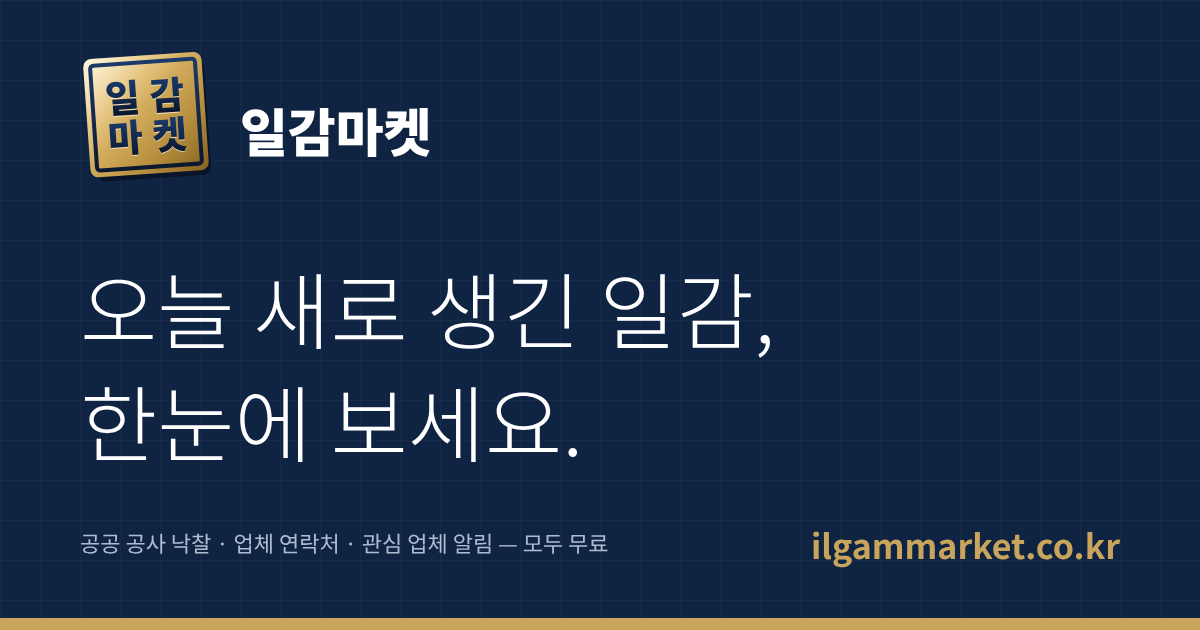
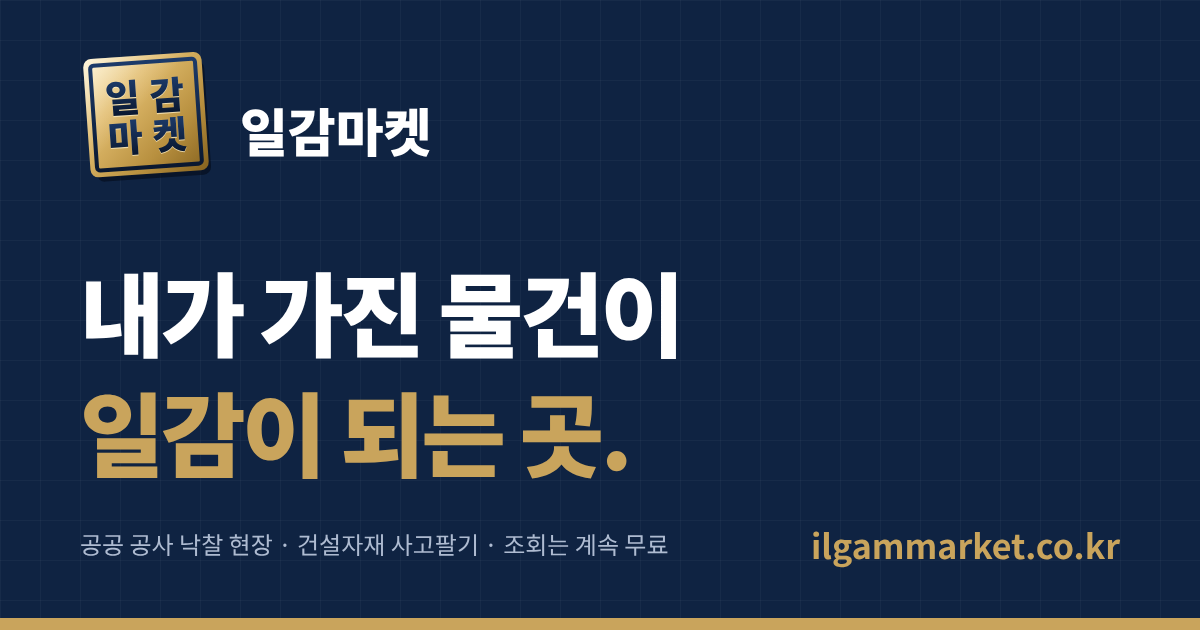
첫 화면 문구: 내가 가진 물건이 일감이 되는 곳 (설명·제목·공유 이미지·검색 소개 문구 통일)
Claude-Session: https://claude.ai/code/session_012PyYqoCitPcM8dpfn6xUZL

Changed region(s): [[0.0617, 0.4222, 0.6475, 0.573], [0.0617, 0.6032, 0.5242, 0.7841], [0.0617, 0.8444, 0.555, 0.9048]]

diff --git a/index.html b/index.html
@@ -3,11 +3,11 @@
 <head>
 <meta charset="utf-8">
 <meta name="viewport" content="width=device-width, initial-scale=1">
-<title>일감마켓 · 오늘 새로 생긴 일감, 공공 공사 낙찰</title>
+<title>일감마켓 · 내가 가진 물건이 일감이 되는 곳</title>
 <meta name="naver-site-verification" content="c90a09065c84eecffc4b4a400a52710d5afa1786">
-<meta name="description" content="공공 공사 낙찰 소식부터 자재·장비 거래까지. 조달청 나라장터 공공데이터를 지역·분야·업체별로 정리해 매일 아침 갱신합니다.">
+<meta name="description" content="남는 자재·장비를 올리면 필요한 업체가 연락합니다. 공공 공사 낙찰 현장과 업체 정보는 매일 아침 갱신하고, 조회는 계속 무료입니다.">
 <link rel="canonical" href="https://ilgammarket.co.kr/">
-<meta property="og:type" content="website"><meta property="og:site_name" content="일감마켓"><meta property="og:title" content="일감마켓 · 오늘 새로 생긴 일감, 한눈에 보세요"><meta property="og:description" content="공공 공사 낙찰, 업체 연락처, 관심 업체 알림까지 모두 무료. 매일 아침 갱신합니다."><meta property="og:url" content="https://ilgammarket.co.kr/"><meta property="og:image" content="https://ilgammarket.co.kr/og.png"><meta property="og:image:width" content="1200"><meta property="og:image:height" content="630">
+<meta property="og:type" content="website"><meta property="og:site_name" content="일감마켓"><meta property="og:title" content="일감마켓 · 내가 가진 물건이 일감이 되는 곳"><meta property="og:description" content="남는 자재·장비를 올리면 필요한 업체가 연락합니다. 공공 공사 낙찰 현장과 업체 정보는 매일 아침 갱신하고, 조회는 계속 무료입니다."><meta property="og:url" content="https://ilgammarket.co.kr/"><meta property="og:image" content="https://ilgammarket.co.kr/og.png"><meta property="og:image:width" content="1200"><meta property="og:image:height" content="630">
 <meta name="twitter:card" content="summary_large_image"><meta name="twitter:image" content="https://ilgammarket.co.kr/og.png">
 <link rel="icon" type="image/svg+xml" href="/img/icon.svg">
 <meta name="theme-color" content="#0f2342">
@@ -466,9 +466,9 @@ body.ph .hero,body.ph #res{display:none}body:not(.ph) #home{display:none}
 
 <section class="ab-hero"><div class="wrap ab-hw">
 <div class="ab-ht">
-<span class="ab-tag">일감마켓 이야기</span>
-<h1>영업하는 사람이 만든,<br><em>영업하는 사람</em>을 위한 곳</h1>
-<p>낙찰된 현장 옆에 ‘누구에게 전화할까’를 붙였습니다. 일감마켓은 그 한 가지에서 시작했습니다.</p>
+<span class="ab-tag">건설자재 사고팔기 · 낙찰 현장</span>
+<h1>내가 가진 물건이<br><em>일감이 되는 곳.</em></h1>
+<p>이번 주 낙찰된 공사 <b id="hN">1,877</b>건. 남는 자재·장비를 올리면 필요한 업체가 연락합니다. 낙찰·업체 조회는 계속 무료입니다.</p>
 <div class="ab-bt"><button type="button" class="go" data-act="join">무료 가입 · 14일 전부 열림</button><button type="button" class="ab-g" data-act="tab:win">새 일감 보기</button></div>
 </div>
 <div class="ab-hl" aria-hidden="true"><img src="/img/logo.svg" alt="" width="260" height="260"></div>
@@ -703,7 +703,7 @@ fetch('/data/about.json').then(function(r){return r.json()}).then(function(a){
     document.getElementById('wDn').innerHTML=(a.down.length?a.down.map(rl).join(''):'<li><span>없음</span></li>');
     document.getElementById('wBig').innerHTML=a.big.map(function(c){return '<li><span>'+esc(c.nm)+'</span><u>'+eok(c.amt)+'</u></li>'}).join('');
     document.getElementById('dWeek').hidden=false;}
-  var cards=a.cards.map(function(c){return '<div class="ab-card"><small>'+esc(c.rg)+' · '+esc(c.d.slice(5).replace('-','월 '))+'일 낙찰</small><b>'+esc(c.nm)+'</b><span>'+esc(c.co)+'<u>'+eok(c.amt)+'</u></span></div>'}).join('');
+  var hn=document.getElementById('hN');if(hn&&a.week)hn.textContent=fmtN(a.week.n);var cards=a.cards.map(function(c){return '<div class="ab-card"><small>'+esc(c.rg)+' · '+esc(c.d.slice(5).replace('-','월 '))+'일 낙찰</small><b>'+esc(c.nm)+'</b><span>'+esc(c.co)+'<u>'+eok(c.amt)+'</u></span></div>'}).join('');
   document.getElementById('dTrack').innerHTML=cards+cards;
 }).catch(function(){var s=document.querySelector('.ab-data');if(s)s.style.display='none'});
 })();
